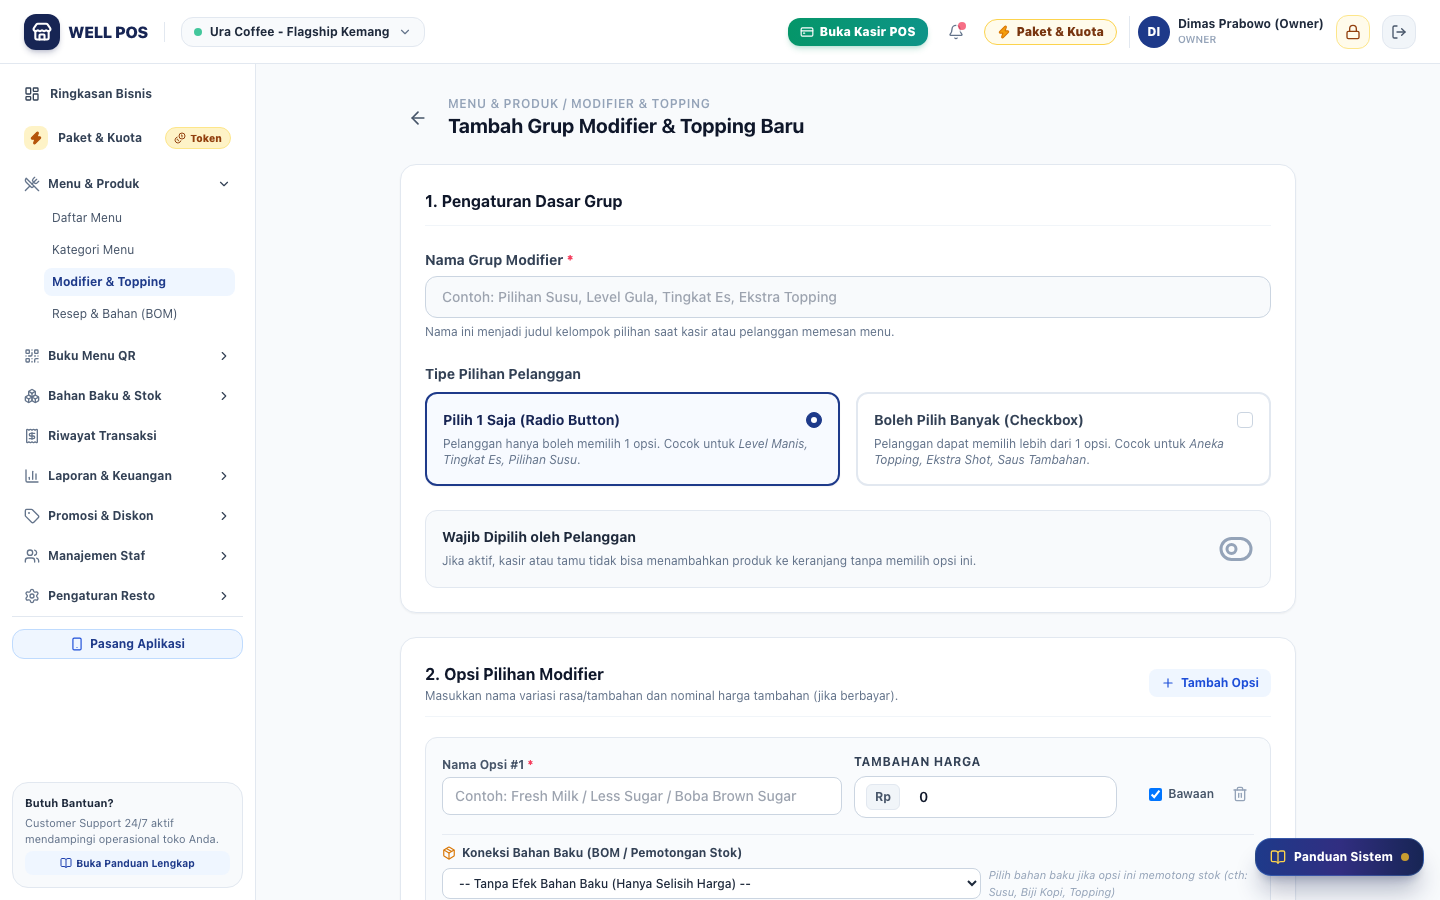
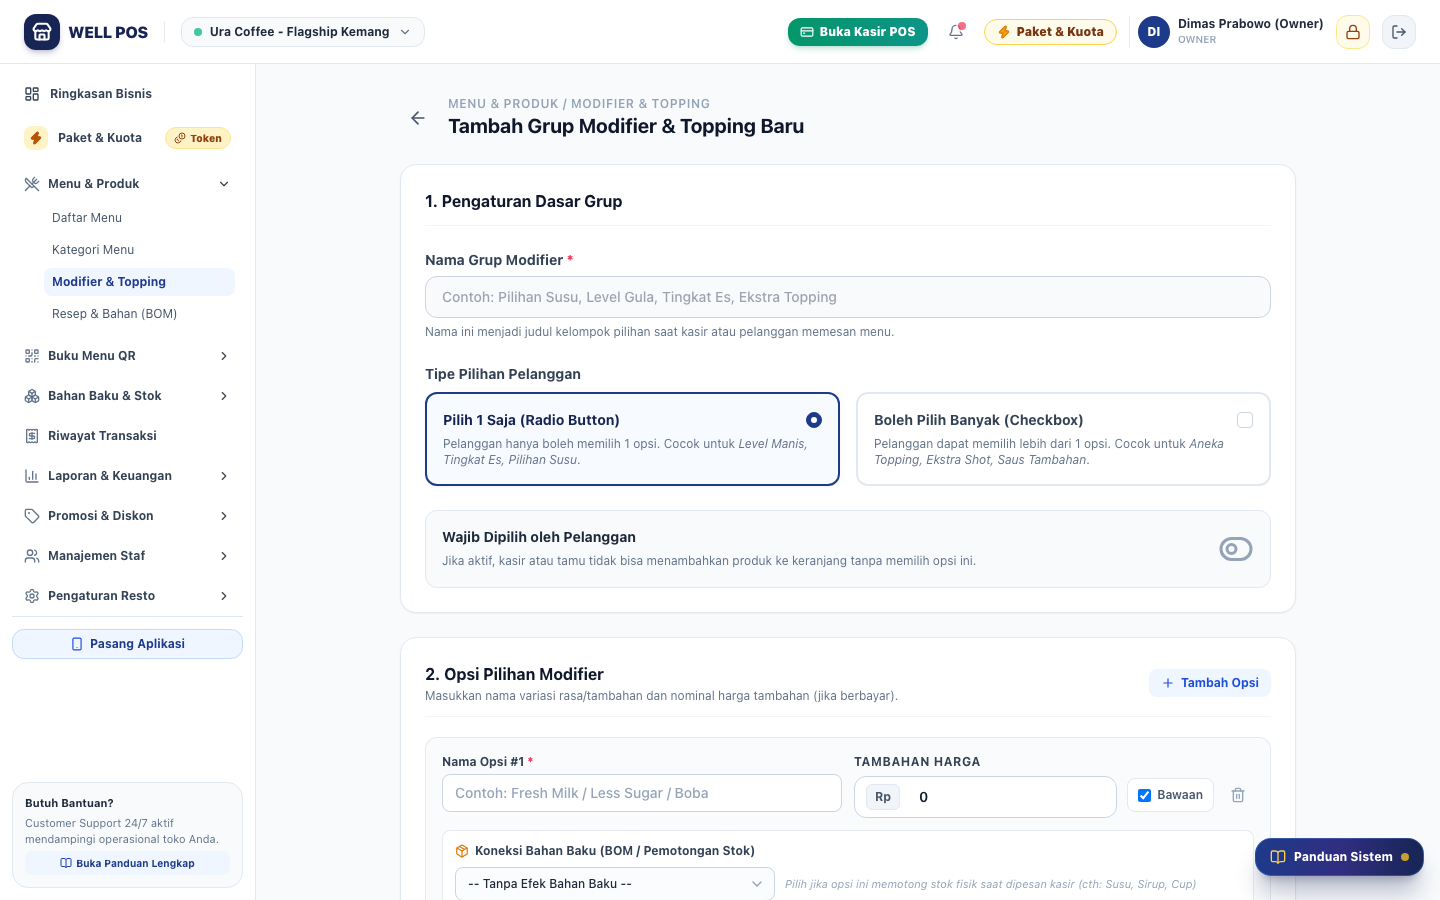
fix(modifiers): refine BOM dropdown layout, width proportions, and chevron padding

Changed region(s): [[0.3125, 0.9333, 0.8438, 1.0], [0.3125, 0.84, 0.5625, 0.9022], [0.7812, 0.8711, 0.875, 0.9022]]

diff --git a/pos_apps/client/src/pages/ModifiersView.tsx b/pos_apps/client/src/pages/ModifiersView.tsx
@@ -15,6 +15,8 @@ import {
   ToggleRight,
   Layers,
   Package,
+  ChevronDown,
+  X,
 } from 'lucide-react';
 import { api } from '../services/api';
 import type { ModifierGroup, ModifierItem, UpsertModifierGroupInput } from '../types/modifier';
@@ -437,83 +439,93 @@ export const ModifiersView: React.FC = () => {
               </button>
             </div>
 
-            <div className="space-y-3">
+            <div className="space-y-3.5">
               {formData.items.map((item, index) => (
                 <div
                   key={index}
-                  className="p-4 bg-slate-50/80 border border-slate-200 rounded-xl grid grid-cols-1 sm:grid-cols-12 gap-3 items-center"
+                  className="p-4 bg-slate-50/70 border border-slate-200/90 rounded-xl space-y-3 hover:border-slate-300 transition-colors"
                 >
-                  {/* Nama Opsi */}
-                  <div className="sm:col-span-6">
-                    <label className="block text-xs font-bold text-slate-600 mb-1">
-                      Nama Opsi #{index + 1} <span className="text-rose-500">*</span>
-                    </label>
-                    <input
-                      type="text"
-                      value={item.name}
-                      onChange={(e) => handleItemChange(index, 'name', e.target.value)}
-                      placeholder="Contoh: Fresh Milk / Less Sugar / Boba Brown Sugar"
-                      className="w-full px-3 py-2 bg-white border border-slate-300 rounded-lg text-sm font-medium text-slate-900 focus:ring-2 focus:ring-blue-500 focus:border-blue-500"
-                      required
-                    />
-                  </div>
-
-                  {/* Tambahan Harga (+Rp) via CurrencyInput */}
-                  <div className="sm:col-span-4">
-                    <CurrencyInput
-                      label="Tambahan Harga"
-                      value={item.priceAdjustment}
-                      onChange={(num) => handleItemChange(index, 'priceAdjustment', num)}
-                      placeholder="0"
-                      inputClassName="py-2 text-sm"
-                    />
-                  </div>
-
-                  {/* Default & Delete */}
-                  <div className="sm:col-span-2 flex items-center justify-between sm:justify-end gap-3 pt-2 sm:pt-4">
-                    <label
-                      className="flex items-center gap-1.5 cursor-pointer text-xs font-semibold text-slate-600"
-                      title="Jadikan pilihan standar terpilih"
-                    >
+                  {/* Baris 1: Atribut Utama (Nama Opsi, Tambahan Harga, Bawaan, Hapus) */}
+                  <div className="grid grid-cols-1 sm:grid-cols-12 gap-3 items-start">
+                    {/* Nama Opsi */}
+                    <div className="sm:col-span-6">
+                      <label className="block text-xs font-bold text-slate-700 mb-1">
+                        Nama Opsi #{index + 1} <span className="text-rose-500">*</span>
+                      </label>
                       <input
-                        type="checkbox"
-                        checked={item.isDefault}
-                        onChange={(e) => handleItemChange(index, 'isDefault', e.target.checked)}
-                        className="rounded border-slate-300 text-blue-600 focus:ring-blue-500"
+                        type="text"
+                        value={item.name}
+                        onChange={(e) => handleItemChange(index, 'name', e.target.value)}
+                        placeholder="Contoh: Fresh Milk / Less Sugar / Boba"
+                        className="w-full px-3 py-2 bg-white border border-slate-300 rounded-lg text-sm font-medium text-slate-900 focus:ring-2 focus:ring-blue-500 focus:border-blue-500 placeholder:text-slate-400"
+                        required
                       />
-                      <span>Bawaan</span>
-                    </label>
+                    </div>
 
-                    <button
-                      type="button"
-                      onClick={() => handleRemoveItemRow(index)}
-                      className="p-1.5 text-slate-400 hover:text-rose-600 hover:bg-rose-50 rounded-lg transition-colors"
-                      title="Hapus baris opsi"
-                    >
-                      <Trash2 className="w-4 h-4" />
-                    </button>
+                    {/* Tambahan Harga (+Rp) via CurrencyInput */}
+                    <div className="sm:col-span-4">
+                      <CurrencyInput
+                        label="Tambahan Harga"
+                        value={item.priceAdjustment}
+                        onChange={(num) => handleItemChange(index, 'priceAdjustment', num)}
+                        placeholder="0"
+                        inputClassName="py-2 text-sm"
+                      />
+                    </div>
+
+                    {/* Default & Delete */}
+                    <div className="sm:col-span-2 flex items-center justify-between sm:justify-end gap-2 pt-2 sm:pt-6">
+                      <label
+                        className="flex items-center gap-1.5 cursor-pointer text-xs font-semibold text-slate-600 bg-white hover:bg-slate-50 px-2.5 py-2 rounded-lg border border-slate-200 transition-colors"
+                        title="Jadikan pilihan standar terpilih"
+                      >
+                        <input
+                          type="checkbox"
+                          checked={item.isDefault}
+                          onChange={(e) => handleItemChange(index, 'isDefault', e.target.checked)}
+                          className="rounded border-slate-300 text-blue-600 focus:ring-blue-500"
+                        />
+                        <span>Bawaan</span>
+                      </label>
+
+                      <button
+                        type="button"
+                        onClick={() => handleRemoveItemRow(index)}
+                        className="p-2 text-slate-400 hover:text-rose-600 hover:bg-rose-50 rounded-lg transition-colors cursor-pointer"
+                        title="Hapus baris opsi"
+                      >
+                        <Trash2 className="w-4 h-4" />
+                      </button>
+                    </div>
                   </div>
 
-                  {/* Efek Pengurangan Bahan Baku (BOM / Resep Modifier) */}
-                  <div className="sm:col-span-12 pt-2.5 border-t border-slate-200/80 mt-1">
-                    <div className="flex flex-wrap items-center justify-between gap-2 mb-1.5">
+                  {/* Baris 2: Sub-Card Efek Pengurangan Bahan Baku (BOM / Pemotongan Stok) */}
+                  <div className="p-3 bg-white border border-slate-200/90 rounded-lg">
+                    <div className="flex flex-wrap items-center justify-between gap-2 mb-2">
                       <div className="flex items-center gap-1.5 text-xs font-bold text-slate-700">
-                        <Package className="w-3.5 h-3.5 text-amber-600" />
+                        <Package className="w-3.5 h-3.5 text-amber-600 shrink-0" />
                         <span>Koneksi Bahan Baku (BOM / Pemotongan Stok)</span>
+                        {item.inventoryEffect?.inventoryItemId && (
+                          <span className="text-[10px] bg-amber-50 text-amber-700 font-bold px-2 py-0.5 rounded-full border border-amber-200">
+                            Terhubung
+                          </span>
+                        )}
                       </div>
                       {item.inventoryEffect?.inventoryItemId && (
                         <button
                           type="button"
                           onClick={() => handleItemInventoryEffectChange(index, '', 0)}
-                          className="text-[11px] text-rose-600 hover:underline font-semibold cursor-pointer"
+                          className="text-[11px] text-rose-600 hover:text-rose-700 font-semibold hover:underline flex items-center gap-1 cursor-pointer"
                         >
-                          Lepas Bahan Baku
+                          <X className="w-3 h-3" />
+                          <span>Lepas Bahan Baku</span>
                         </button>
                       )}
                     </div>
 
-                    <div className="grid grid-cols-1 sm:grid-cols-12 gap-2 items-center">
-                      <div className="sm:col-span-8">
+                    <div className="flex flex-col sm:flex-row items-stretch sm:items-center gap-2.5">
+                      {/* Dropdown Bahan Baku Berukuran Proporsional dengan Chevron Custom */}
+                      <div className="relative w-full sm:w-72 lg:w-80 shrink-0">
                         <select
                           value={item.inventoryEffect?.inventoryItemId || ''}
                           onChange={(e) => {
@@ -524,43 +536,50 @@ export const ModifiersView: React.FC = () => {
                               item.inventoryEffect?.quantityDelta || 1
                             );
                           }}
-                          className="w-full px-3 py-1.5 bg-white border border-slate-300 rounded-lg text-xs font-medium text-slate-800 focus:ring-2 focus:ring-amber-500 focus:border-amber-500"
+                          className="w-full appearance-none pl-3 pr-8 py-2 bg-slate-50/60 hover:bg-white border border-slate-300 rounded-lg text-xs font-medium text-slate-800 focus:bg-white focus:ring-2 focus:ring-amber-500/20 focus:border-amber-500 transition-colors cursor-pointer"
                         >
-                          <option value="">-- Tanpa Efek Bahan Baku (Hanya Selisih Harga) --</option>
+                          <option value="">-- Tanpa Efek Bahan Baku --</option>
                           {inventoryItems.map((inv) => (
                             <option key={inv.id} value={inv.id}>
-                              {inv.name} (Satuan: {inv.canonicalUom})
+                              {inv.name} ({inv.canonicalUom})
                             </option>
                           ))}
                         </select>
+                        <ChevronDown className="w-4 h-4 text-slate-400 absolute right-2.5 top-1/2 -translate-y-1/2 pointer-events-none" />
                       </div>
 
+                      {/* Jika Terhubung: Input Takaran & Satuan */}
                       {item.inventoryEffect?.inventoryItemId ? (
-                        <div className="sm:col-span-4 flex items-center gap-1.5">
-                          <input
-                            type="number"
-                            min="0.001"
-                            step="any"
-                            value={item.inventoryEffect.quantityDelta || ''}
-                            onChange={(e) =>
-                              handleItemInventoryEffectChange(
-                                index,
-                                item.inventoryEffect!.inventoryItemId,
-                                parseFloat(e.target.value) || 0
-                              )
-                            }
-                            placeholder="Takaran pemotongan"
-                            className="w-full px-3 py-1.5 bg-white border border-slate-300 rounded-lg text-xs font-bold text-slate-900 focus:ring-2 focus:ring-amber-500 focus:border-amber-500"
-                          />
-                          <span className="text-xs font-bold text-slate-700 bg-amber-50 px-2 py-1.5 rounded-lg border border-amber-200 shrink-0">
+                        <div className="flex items-center gap-1.5">
+                          <div className="relative w-28 sm:w-32 shrink-0">
+                            <input
+                              type="number"
+                              min="0.001"
+                              step="any"
+                              value={item.inventoryEffect.quantityDelta || ''}
+                              onChange={(e) =>
+                                handleItemInventoryEffectChange(
+                                  index,
+                                  item.inventoryEffect!.inventoryItemId,
+                                  parseFloat(e.target.value) || 0
+                                )
+                              }
+                              placeholder="Takaran"
+                              className="w-full px-2.5 py-2 bg-white border border-slate-300 rounded-lg text-xs font-bold text-slate-900 focus:ring-2 focus:ring-amber-500/20 focus:border-amber-500"
+                            />
+                          </div>
+                          <span className="text-xs font-bold text-slate-700 bg-amber-50 px-2.5 py-2 rounded-lg border border-amber-200 shrink-0">
                             {inventoryItems.find((ii) => ii.id === item.inventoryEffect?.inventoryItemId)
                               ?.canonicalUom || 'Satuan'}
                           </span>
+                          <span className="text-[11px] text-slate-400 ml-1 hidden sm:inline">
+                            per porsi
+                          </span>
                         </div>
                       ) : (
-                        <div className="sm:col-span-4 text-[11px] text-slate-400 italic">
-                          Pilih bahan baku jika opsi ini memotong stok (cth: Susu, Biji Kopi, Topping)
-                        </div>
+                        <p className="text-[11px] text-slate-400 italic">
+                          Pilih jika opsi ini memotong stok fisik saat dipesan kasir (cth: Susu, Sirup, Cup)
+                        </p>
                       )}
                     </div>
                   </div>
